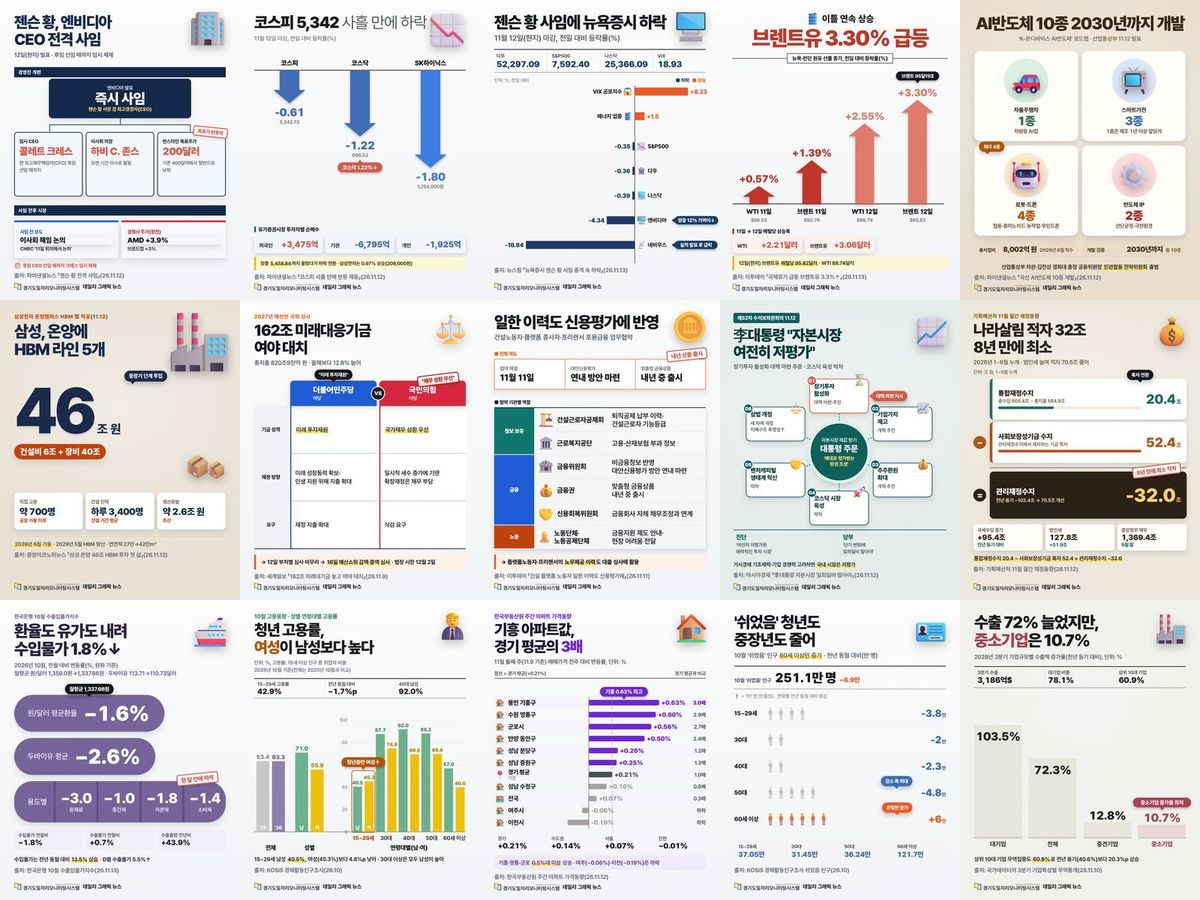
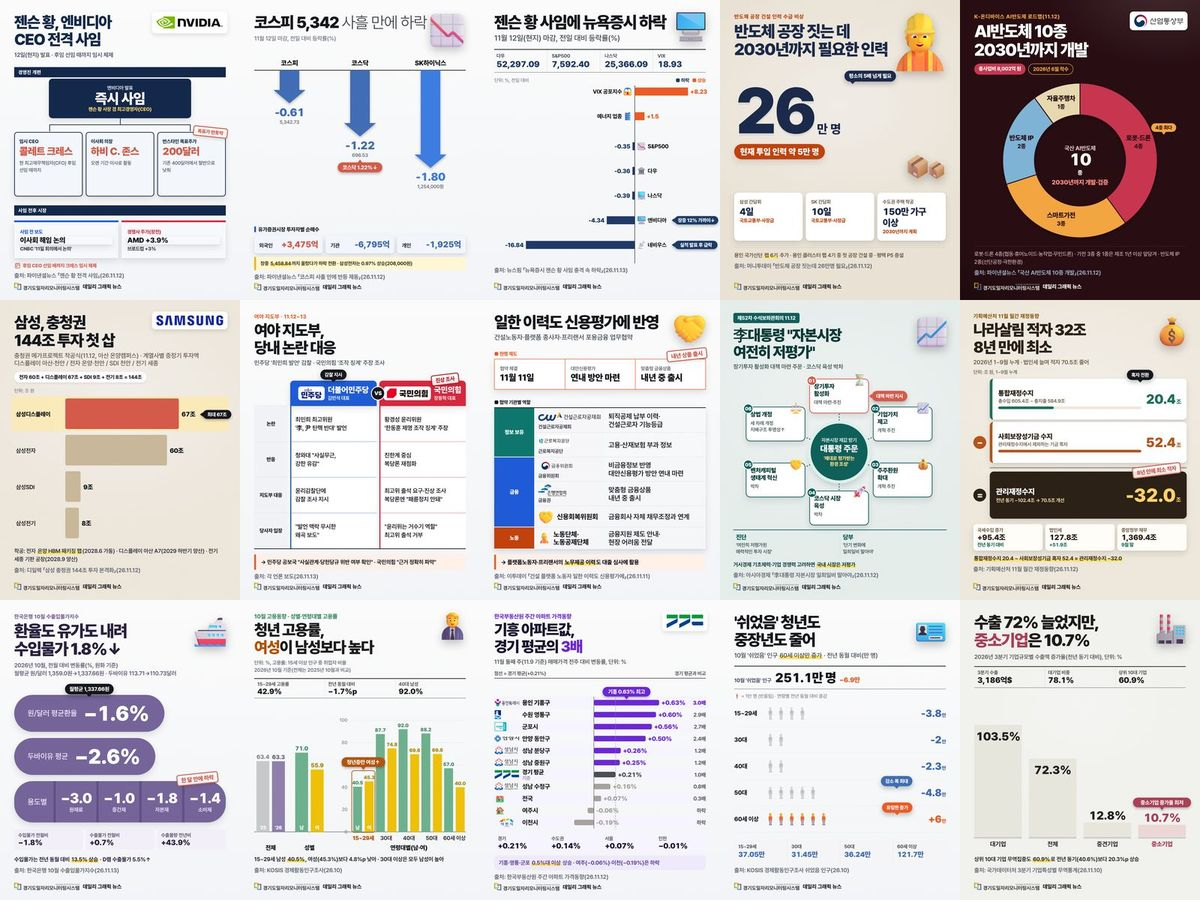
261113 웹페이지 수정(04·06·07 교체, 미리보기 갱신)
Claude-Session: https://claude.ai/code/session_015uJhCPYxhXu45H4AYmxR3L

diff --git a/daily/2026-11-13/index.html b/daily/2026-11-13/index.html
@@ -5,10 +5,10 @@
 <li><span class="n">01</span><div><b>젠슨 황, 엔비디아 CEO 전격 사임</b><span class="s"><a href="https://www.fnnews.com/news/202611122300110225" target="_blank" rel="noopener">파이낸셜뉴스 「젠슨 황 전격 사임」(26.11.12)</a></span></div></li>
 <li><span class="n">02</span><div><b>코스피 5,342.73, 사흘 만에 하락</b><span class="s"><a href="https://www.fnnews.com/news/202611121539360346" target="_blank" rel="noopener">파이낸셜뉴스 「코스피 사흘 만에 반등 제동」(26.11.12)</a></span></div></li>
 <li><span class="n">03</span><div><b>젠슨 황 사임에 뉴욕증시 하락, 엔비디아 4.34%↓</b><span class="s"><a href="https://www.newspim.com/news/view/20261113000019" target="_blank" rel="noopener">뉴스핌 「뉴욕증시 젠슨 황 사임 충격 속 하락」(26.11.13)</a></span></div></li>
-<li><span class="n">04</span><div><b>국제유가 이틀 연속 상승, 브렌트유 95.82달러</b><span class="s"><a href="https://www.etoday.co.kr/news/view/2647638" target="_blank" rel="noopener">이투데이 「국제유가 급등 브렌트유 3.3%↑」(26.11.13)</a></span></div></li>
+<li><span class="n">04</span><div><b>반도체 공장 건설에 2030년까지 26만 명 필요</b><span class="s"><a href="https://news.nate.com/view/20261112n29123" target="_blank" rel="noopener">머니투데이 「반도체 공장 짓는데 26만명 필요」(26.11.12)</a></span></div></li>
 <li><span class="n">05</span><div><b>국산 AI반도체 10종 2030년까지 개발(8,002억 원)</b><span class="s"><a href="https://www.fnnews.com/news/202611121345227008" target="_blank" rel="noopener">파이낸셜뉴스 「국산 AI반도체 10종 개발」(26.11.12)</a></span></div></li>
-<li><span class="n">06</span><div><b>삼성 온양 46조 HBM 투자, 직접 고용 약 700명</b><span class="s"><a href="https://www.joongangenews.com/news/articleView.html?idxno=563319" target="_blank" rel="noopener">중앙이코노미뉴스 「삼성 온양 46조 HBM 투자 첫 삽」(26.11.12)</a></span></div></li>
-<li><span class="n">07</span><div><b>162조 미래대응기금 놓고 여야 대치</b><span class="s"><a href="https://www.segye.com/newsView/20261109502069" target="_blank" rel="noopener">세계일보 「162조 미래대기금 놓고 여야 대치」(26.11.9)</a></span></div></li>
+<li><span class="n">06</span><div><b>삼성, 충청권 144조 투자 첫 삽</b><span class="s"><a href="https://www.thelec.kr/news/articleView.html?idxno=65339" target="_blank" rel="noopener">디일렉 「삼성 충청권 144조 투자 본격화」(26.11.12)</a></span></div></li>
+<li><span class="n">07</span><div><b>여야 지도부, 당내 논란 대응</b><span class="s">각 언론 보도(26.11.13)<br>· <a href="https://www.segye.com/newsView/20261112519590" target="_blank" rel="noopener">더불어민주당: 세계일보 「최민희 李 尹 탄핵 반대 발언 논란 김민석 감찰 지시」(26.11.13)</a><br>· <a href="https://news.nate.com/view/20261113n01091" target="_blank" rel="noopener">국민의힘: 동아일보 「장동혁 한동훈 복당론에 패륜정치 안돼」(26.11.13)</a></span></div></li>
 <li><span class="n">08</span><div><b>건설·플랫폼 노동자 일한 이력도 신용평가에 반영</b><span class="s"><a href="https://www.etoday.co.kr/news/view/2646490" target="_blank" rel="noopener">이투데이 「건설 플랫폼 노동자 일한 이력도 신용평가에」(26.11.11)</a></span></div></li>
 <li><span class="n">09</span><div><b>李대통령 &quot;자본시장 여전히 저평가&quot;, 장기투자 대책 주문</b><span class="s"><a href="https://view.asiae.co.kr/article/2026111215414263430" target="_blank" rel="noopener">아시아경제 「李대통령 자본시장 일희일비 말아야」(26.11.12)</a></span></div></li>
 <li><span class="n">10</span><div><b>1~9월 나라살림 적자 32조, 8년 만에 최소</b><span class="s"><a href="https://news.mtn.co.kr/article/2026111211283746559" target="_blank" rel="noopener">기획예산처 11월 월간 재정동향(26.11.12)</a></span></div></li>
